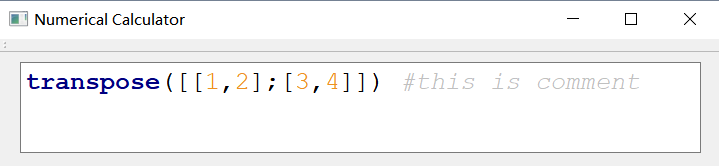
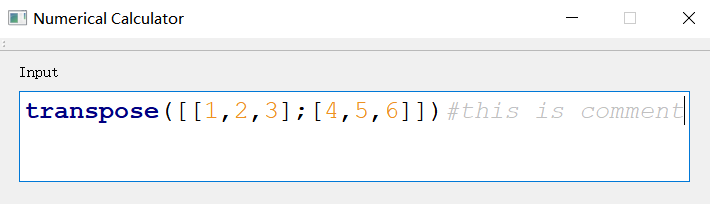
append 测试报告

diff --git a/NumericalCalulator/Algorithm/generalparser.cpp b/NumericalCalulator/Algorithm/generalparser.cpp
@@ -1,4 +1,5 @@
 #include "generalparser.h"
+#include "Common/exception.h"
 #include "Algorithm/matrixtransformation.h"
 #include "Common/polynomial.h"
 #include "Common/point.h"
@@ -186,7 +187,7 @@ FunctionType seperateComponent(const std::string &expression, std::vector<std::s
             return IntegratePolynomial;
         }
         else {//no such functionName
-            //error: no such function name
+            throw FunctionNotFoundException();
         }
     }
 }

diff --git a/doc/测试报告.md b/doc/测试报告.md
@@ -1,9 +1,5 @@
 # 测试报告
 
-## 集成测试
-
-本部分测试各模块各函数的集成效果。
-
 
 
 ## 单元测试
@@ -24,29 +20,51 @@
 
 ### 错误的函数名
 
-测试样例：
-
-```c++
-
+```python
+WrongFunctionName([1,2,3])
 ```
+
+效果：
+
+![非法函数名](.\非法函数名.PNG)
 
 
 
 ### 非法的字符
 
+```python
+invert([[1,2];[3,4]]非法字符)
+```
+
+效果：
+
+![非法字符](.\非法字符.PNG)
+
 
 
 ### 括号不匹配
+
+```python
+[1,2] * [[1,2,3];[4,5,6]
+```
+
+效果：
+
+![括号不匹配](.\括号不匹配.PNG)
 
 
 
 ### 其他错误的表达式的情形
 
+```python
+SolvePoly(x^2+x=)
+```
 
+效果：
 
-### 非满秩矩阵
+![其他非法表达式](.\其他非法表达式.PNG)
 
-
+### 
 
 
 
@@ -56,55 +74,155 @@
 
 ### 语法高亮
 
+```python
+transpose([[1,2,3];[4,5,6]])#this is comment
+```
+
+效果：
+
+![语法高亮](./语法高亮.PNG)
+
 
 
 ### 曲线绘制
 
+```python
+draw(x^2)
+```
 
+效果：
+
+![curve](.\curve.PNG)
+
+
+
+```python
+draw(x^0.5)
+```
+
+效果：
+
+![curve2](.\curve2.PNG)
+
+
+
+```python
+draw(0.5x)
+```
+
+效果：
+
+![curve3](.\curve3.PNG)
 
 ### 矩阵计算行列式
 
+```python
+ComputeDeterminant([[1,2];[3,4]])
+```
 
+效果：
+
+![行列式](.\行列式.PNG)
 
 ### 一次方程求解
 
+```python
+SolvePoly(x + 1 = 0)
+```
 
+效果：
+
+![一次方程](.\一次方程.PNG)
 
 ### 二次方程求解
 
+```python
+SolvePoly(x^2 - x = 0)
+```
 
+效果：
+
+![二次方程](.\二次方程.PNG)
 
 ### 高阶方程求数值解
 
+```pyhton
+SolvePoly(x^3+x+1)
+```
 
+效果：
+
+![三次](.\三次.PNG)
 
 ### 多项式函数积分
 
+```python
+integrate(x^2+x)
+```
 
+效果：
+
+![积分](.\积分.PNG)
 
 ### 矩阵的加法
 
+```python
+[[1,2];[3,4]] + [[7,6];[3,4]]
+```
 
+效果：
+
+![矩阵加法](.\矩阵加法.PNG)
 
 ### 矩阵的减法
 
+```python
+[[1,2];[3,4]] - [[7,6];[3,4]]
+```
 
+效果：
+
+![矩阵减法](.\矩阵减法.PNG)
 
 ### 矩阵的乘法
 
+```python
+[[1,2];[3,4]] * [[7,6];[3,4]]
+```
 
+效果：
+
+![矩阵乘法](.\矩阵乘法.PNG)
 
 ### 矩阵的求逆
 
+```python
+invert([[1,2];[3,4]])
+```
 
+效果：
+
+![求逆](.\求逆.PNG)
 
 ### 矩阵的转置
 
+```python
+transpose([[1,2];[3,4]])
+```
 
+效果：
+
+![转置](.\转置.PNG)
 
 ### 线性方程组的求解
 
+```pyhton
+SolveLinear([[2,1,3];[1,-1,1]]) #传入的是线性方程组对应的增广矩阵
+```
 
+效果：
+
+![线性方程组](.\线性方程组.PNG)
 
 
 

diff --git a/doc/陈佳伟分报告.md b/doc/陈佳伟分报告.md
@@ -8,4 +8,19 @@
 
 
 
-图表说明
+## 图表说明
+
+
+
+## 运行效果图
+
+
+
+## 心得体会 
+
+
+
+## 课程建议
+
+
+
